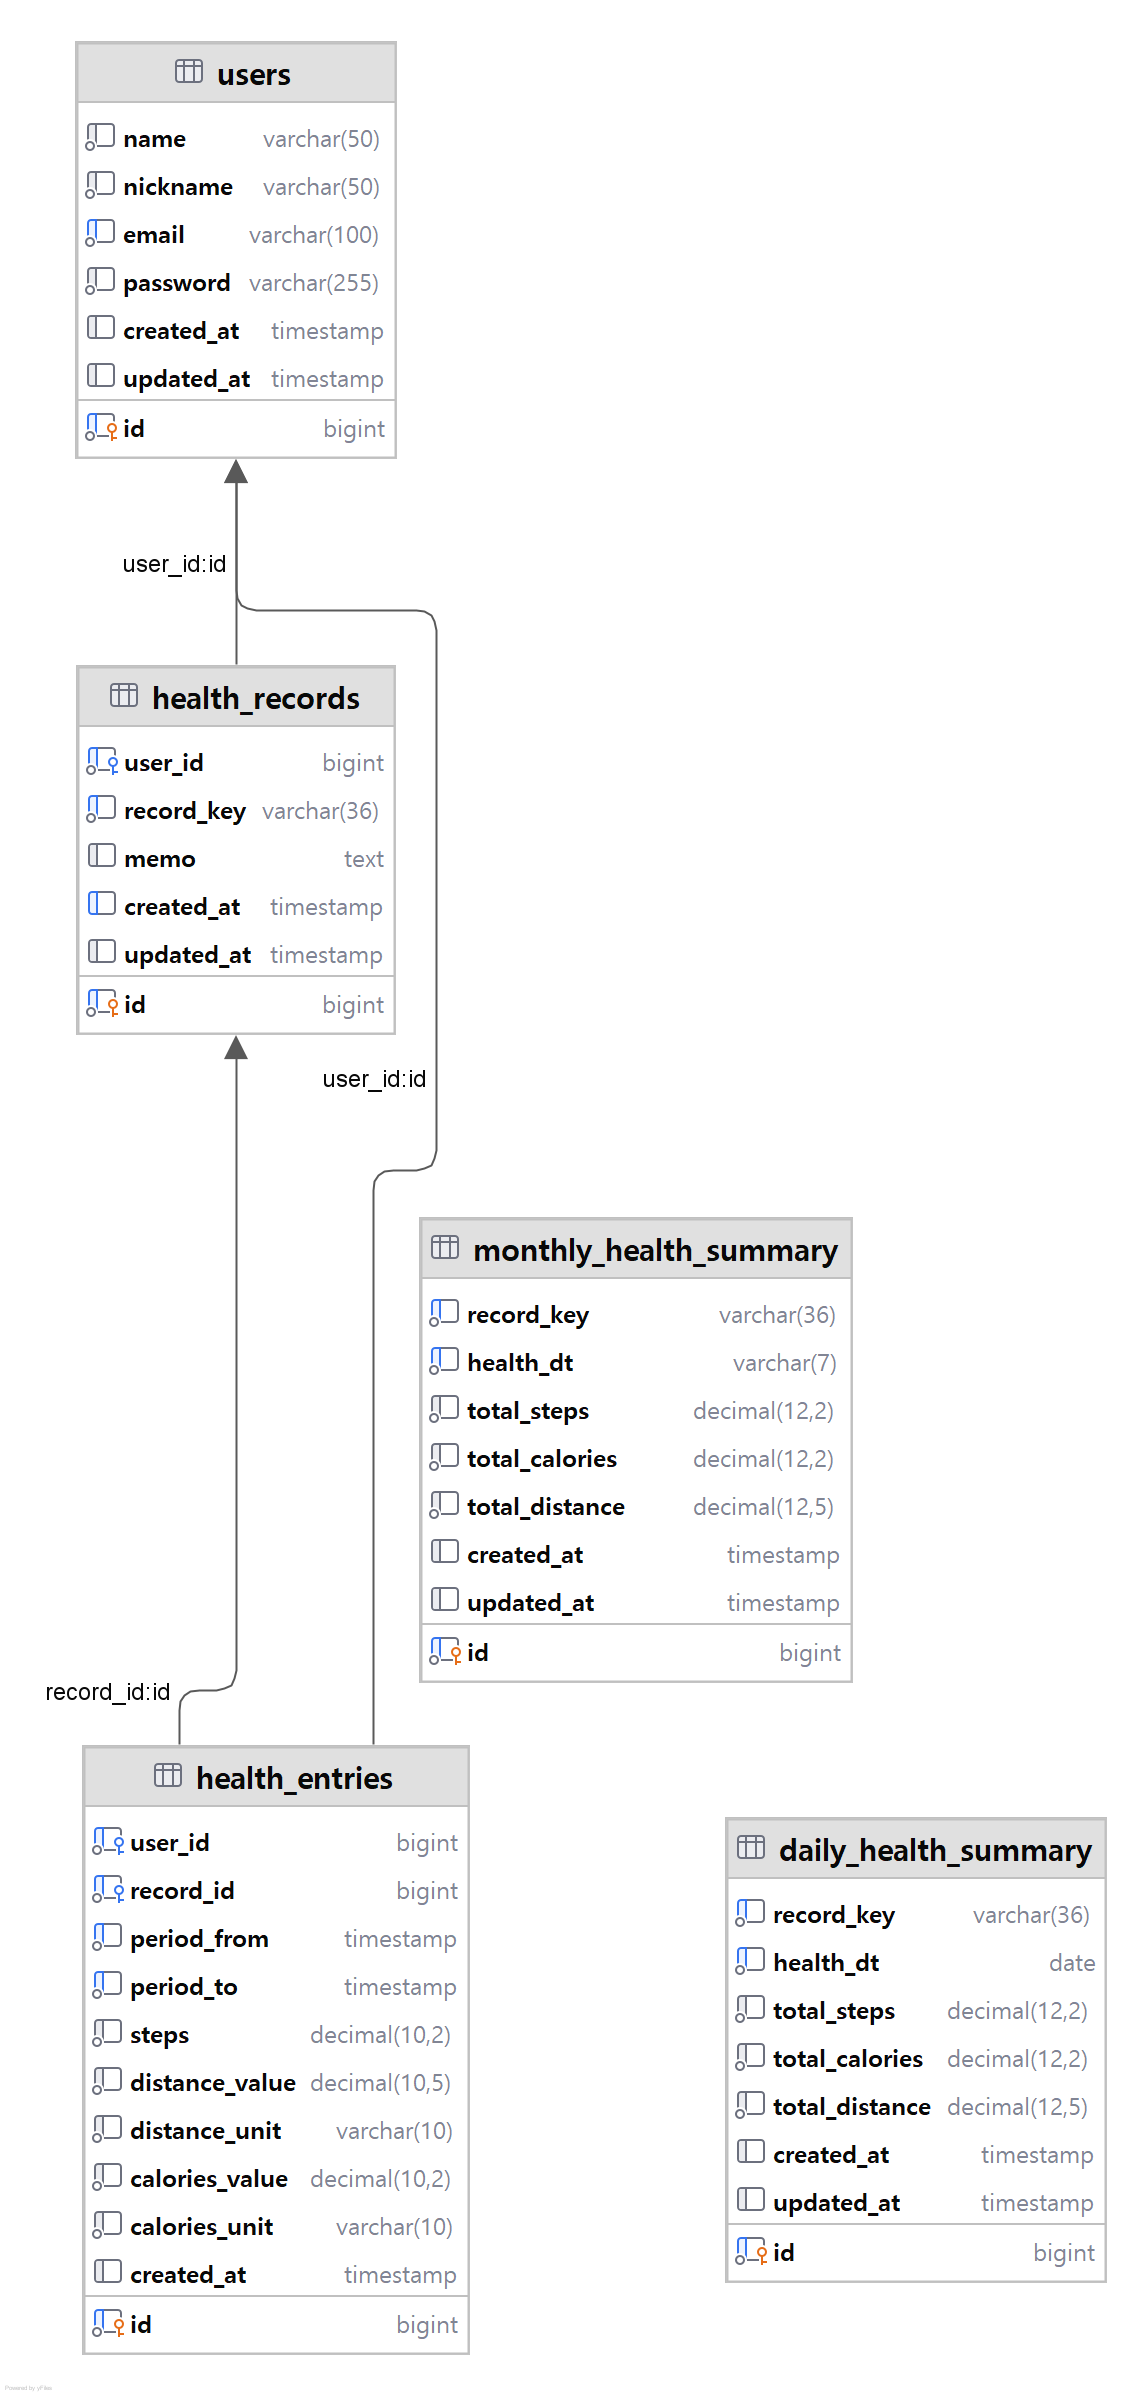
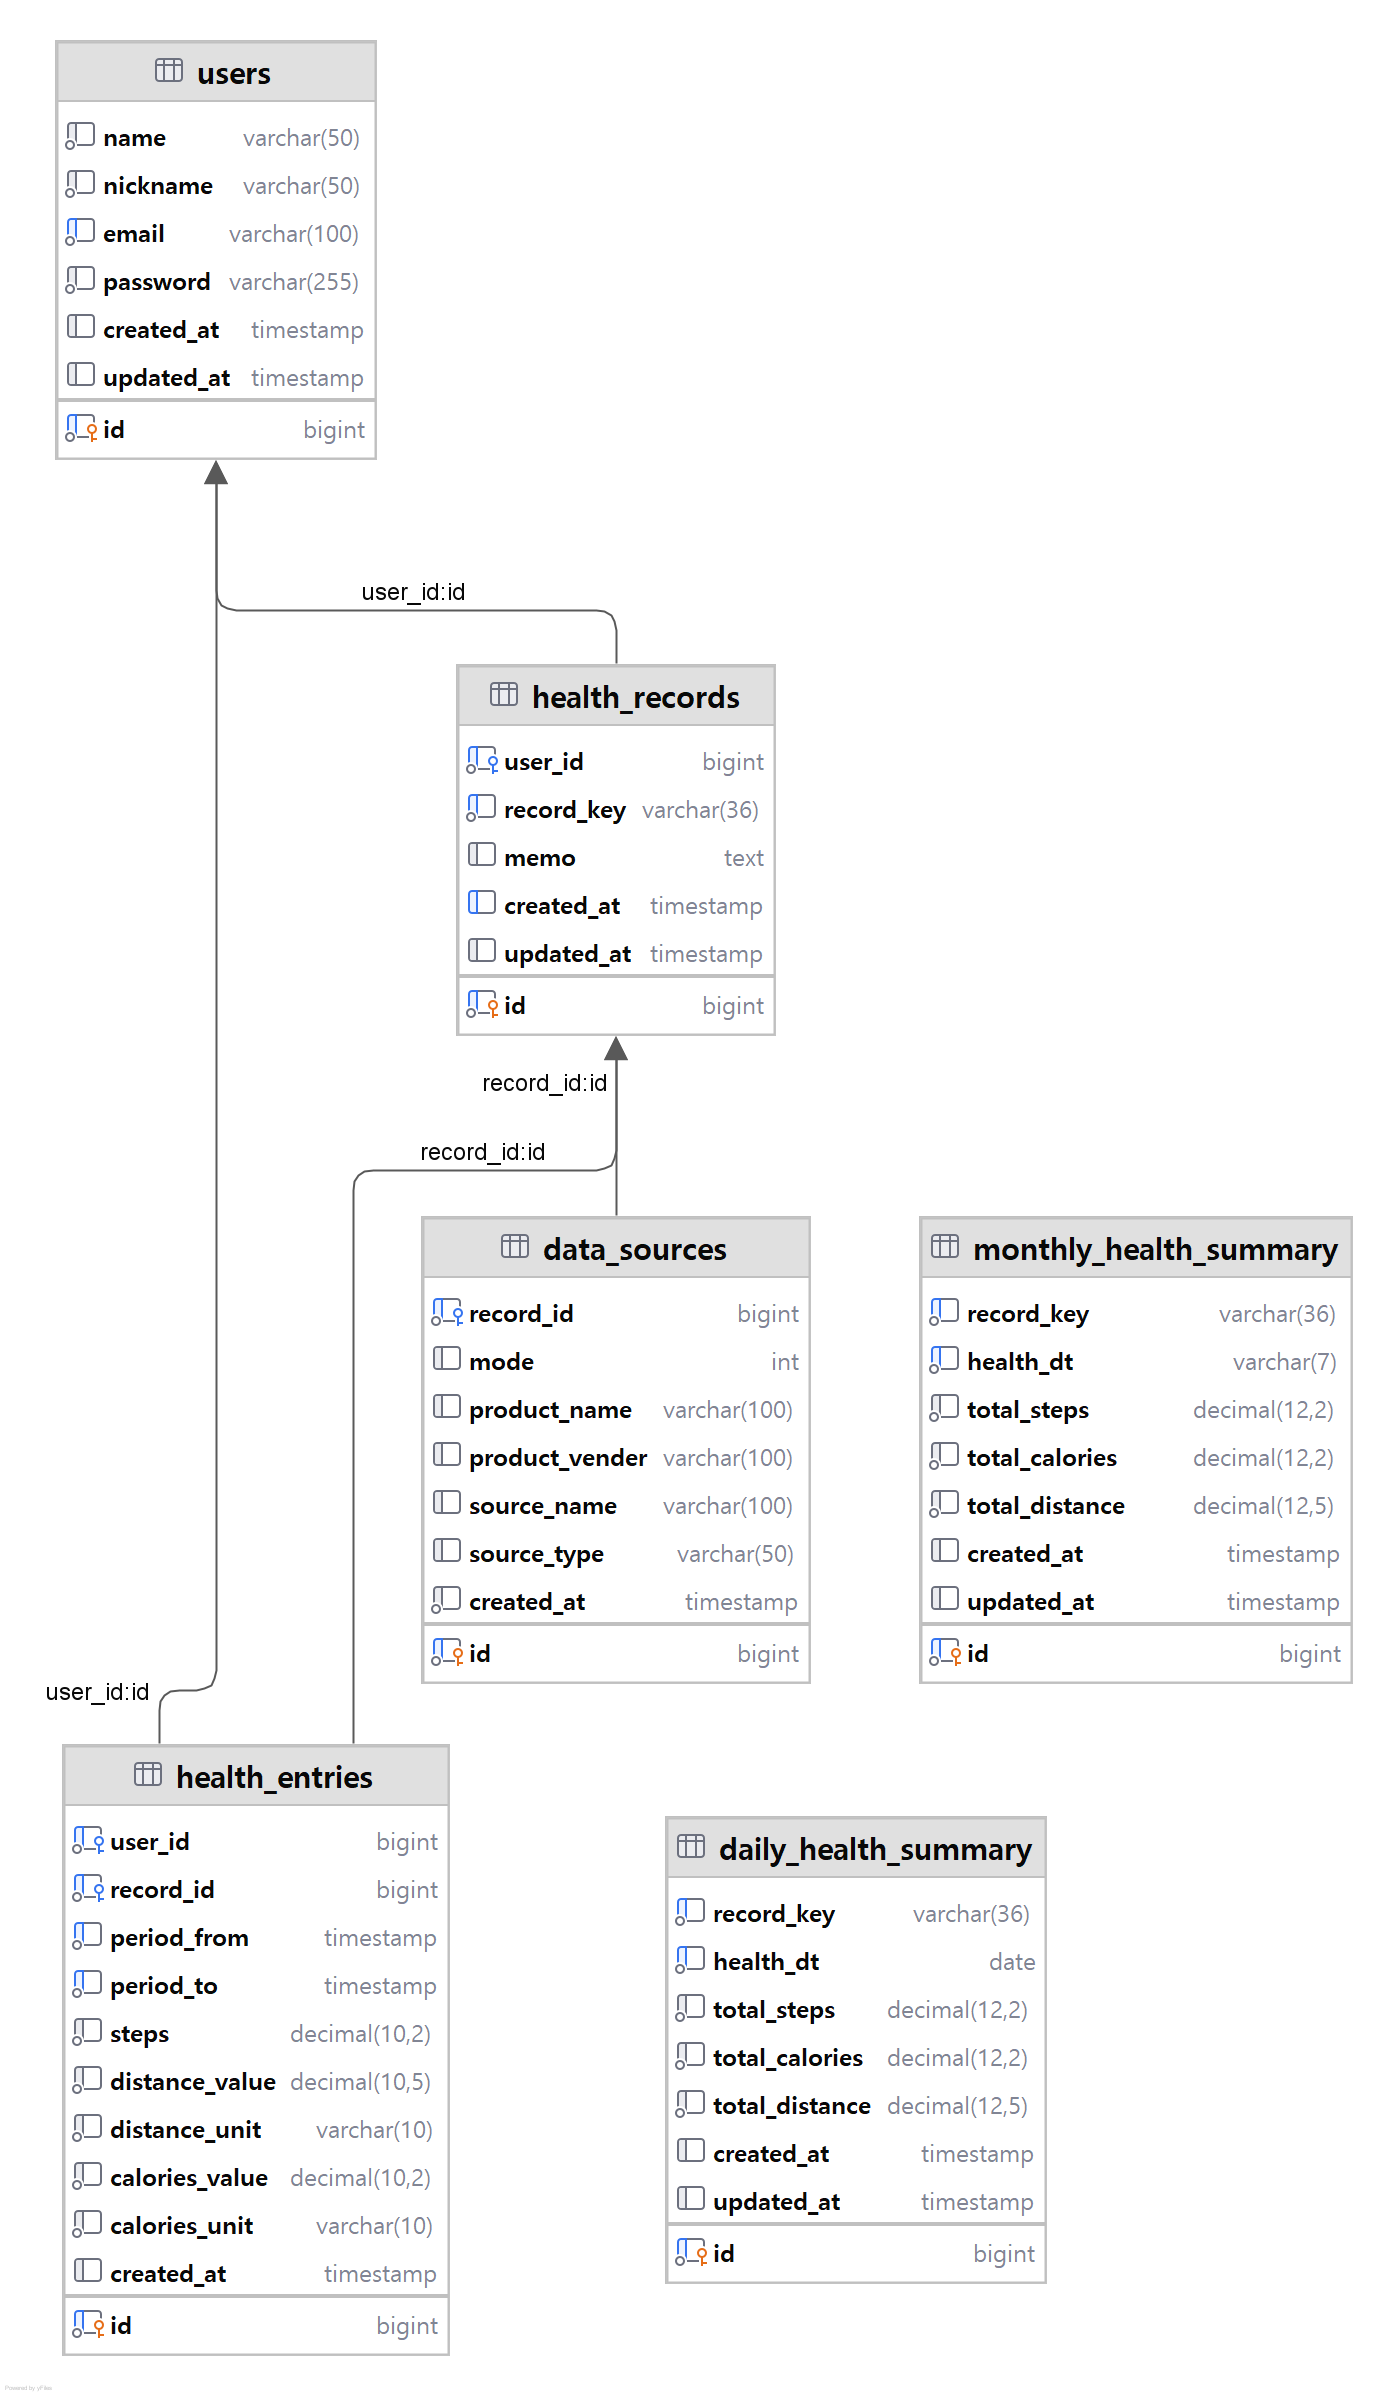
docs: DB, ERD 업데이트

diff --git a/README.md b/README.md
@@ -43,8 +43,9 @@
 | 1 | users | 사용자 정보 |
 | 2 | health_records | 건강 기록 메인 |
 | 3 | health_entries | 시간대별 건강 데이터 |
-| 4 | daily_health_summary | 일별 집계 |
-| 5 | monthly_health_summary | 월별 집계 |
+| 4 | data_sources | 데이터 소스 정보 |
+| 5 | daily_health_summary | 일별 집계 |
+| 6 | monthly_health_summary | 월별 집계 |
 
 자세한 테이블 설계는 [DATABASE_DESIGN.md](docs/DATABASE_DESIGN.md)를 참고하세요.
 
@@ -117,7 +118,27 @@
 
 ---
 
-### 3.4. daily_health_summary (일별 집계)
+### 3.4. data_sources (데이터 소스)
+
+| 컬럼명 | 데이터 타입 | NULL | 기본값 | 설명 |
+|--------|------------|------|--------|------|
+| id | BIGINT | NO | AUTO_INCREMENT | 소스 ID (PK) |
+| record_id | BIGINT | NO | - | 레코드 ID (FK) |
+| mode | INT | YES | NULL | 데이터 수집 모드 |
+| product_name | VARCHAR(100) | YES | NULL | 제품명 |
+| product_vender | VARCHAR(100) | YES | NULL | 제조사 |
+| source_name | VARCHAR(100) | YES | NULL | 소스명 |
+| source_type | VARCHAR(50) | YES | NULL | 소스 타입 |
+| created_at | TIMESTAMP | NO | CURRENT_TIMESTAMP | 생성 시간 |
+
+**제약조건**
+- PRIMARY KEY: `id`
+- FOREIGN KEY: `record_id` REFERENCES `health_records(id)` ON DELETE CASCADE
+- INDEX: `record_id`
+
+---
+
+### 3.5. daily_health_summary (일별 집계)
 
 | 컬럼명 | 데이터 타입 | NULL | 기본값 | 설명 |
 |--------|------------|------|--------|------|
@@ -138,7 +159,7 @@
 
 ---
 
-### 3.5. monthly_health_summary (월별 집계)
+### 3.6. monthly_health_summary (월별 집계)
 
 | 컬럼명 | 데이터 타입 | NULL | 기본값 | 설명 |
 |--------|------------|------|--------|------|
@@ -169,11 +190,16 @@
 - 한 명의 사용자는 여러 개의 건강 엔트리를 가질 수 있음
 - 사용자 삭제 시 관련된 모든 엔트리 삭제 (CASCADE)
 
-### 4.3. health_records ↔ health_entries (1:N)
+### 4.3. health_records ↔ data_sources (1:1)
+- 하나의 건강 기록은 하나의 데이터 소스 정보를 가질 수 있음
+- 데이터 수집 기기 및 앱 정보 저장
+- 건강 기록 삭제 시 관련된 데이터 소스도 삭제 (CASCADE)
+
+### 4.4. health_records ↔ health_entries (1:N)
 - 하나의 건강 기록은 여러 개의 시간대별 엔트리를 가질 수 있음
 - 건강 기록 삭제 시 관련된 모든 엔트리 삭제 (CASCADE)
 
-### 4.4. 집계 테이블
+### 4.5. 집계 테이블
 - daily_health_summary: health_entries를 일별로 집계
 - monthly_health_summary: daily_health_summary를 월별로 집계
 - record_key로 논리적 연결 (외래키 제약 없음)
